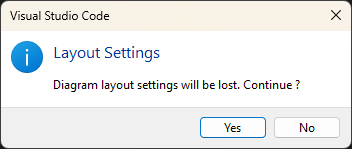
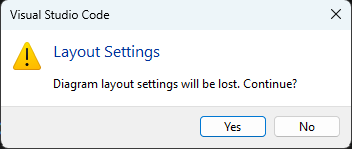
Doc updates for 3.6.0

diff --git a/docs-sources/migration-modelrt/best-practices.md b/docs-sources/migration-modelrt/best-practices.md
@@ -1,26 +1,26 @@
 The sections below summarize experiences and best practises from completed migration projects.
 
 ## Art Exporter Warnings
-It's typical to get a big number of warnings the first time you run the Art Exporter on a model. Each warning has an id that starts with 1, for example `WARNING[1002]`. Even if it's likely that the majority of these warnings are harmless and can be ignored, it's very much recommended that you read and understand each warning. Go through all warnings with a certain id. Once you have done that, and determined that those warnings are safe to ignore, you can disable them in the Model RealTime preferences at **RealTime Development - Build/Transformation - C++ - Rule Configuration**. For example, to disable all warnings with id 1002 add the rule configuration `X1002`.
+It's typical to get a big number of warnings the first time you run the Art Exporter on a model. Each warning has an id that starts with 1, for example `WARNING[1002]`. Even if it's likely that the majority of these warnings are harmless and can be ignored, it's very much recommended that you read and understand each warning. Go through all warnings with a certain id. Once you have done that, and determined that those warnings are safe to ignore, you can disable them in the {$rtist.name$} preferences at **RealTime Development - Build/Transformation - C++ - Rule Configuration**. For example, to disable all warnings with id 1002 add the rule configuration `X1002`.
 
-For some warnings you may instead choose to update the Model RealTime model to get rid of them.
+For some warnings you may instead choose to update the {$rtist.name$} model to get rid of them.
 
 When a warning has been analyzed and you have either disabled it, or updated the model to get rid of it, then run the Art Exporter again to get a new (shorter) list of warnings. Then do the same for the next warning id and repeat until the Art Exporter does not report any warnings for your model.
 
 ## Post Migration Script
-When you decide to make a change in the model to be migrated (for example to address an Art Exporter [warning](#art-exporter-warnings), or add a [missing include directive](#missing-include-directives)) it's of course best if the change can be made in a way that doesn't break the build of the model in Model RealTime. However, sometimes this may not be possible due to differences between how {$product.name$} and Model RealTime work. An alternative to making a breaking change in the Model RealTime model can be to instead update the migrated {$product.name$} files.
+When you decide to make a change in the model to be migrated (for example to address an Art Exporter [warning](#art-exporter-warnings), or add a [missing include directive](#missing-include-directives)) it's of course best if the change can be made in a way that doesn't break the build of the model in {$rtist.name$}. However, sometimes this may not be possible due to differences between how {$product.name$} and {$rtist.name$} work. An alternative to making a breaking change in the {$rtist.name$} model can be to instead update the migrated {$product.name$} files.
 
 You can write a script (e.g. a Bash script) which can make such updates after the Art Exporter has run. Such a post migration script acts like a customization of the Art Exporter, and can also be useful for working around bugs or limitations. By applying the changes with a script rather than doing them manually, you can easily repeat the migration multiple times, something that is often needed during a migration project that can last several weeks for big models.
 
 The sections below cover some known limitations of the Art Exporter which currently must be handled by a post migration script.
 
 ### Updating Names in Code Snippets
-As explained in [Capsule Class Name](#capsule-class-name) there is a difference between Model RealTime and {$product.name$} in how capsule classes and capsule type descriptors are named. The Art Exporter tries to automatically update such references in code snippets. When it's able to detect and update such a name it will print a [warning](#art-exporter-warnings). It's strongly recommended that you review these warnings to confirm that the update is correct.
+As explained in [Capsule Class Name](#capsule-class-name) there is a difference between {$rtist.name$} and {$product.name$} in how capsule classes and capsule type descriptors are named. The Art Exporter tries to automatically update such references in code snippets. When it's able to detect and update such a name it will print a [warning](#art-exporter-warnings). It's strongly recommended that you review these warnings to confirm that the update is correct.
 
 In some cases, however, the Art Exporter will fail to detect these names, and therefore not update them. This can for example happen if they are enclosed in conditional compilation blocks. If you get compilation errors caused by names that were not updated correctly, it's recommended to update them using a [post migration script](#post-migration-script) that can accurately detect and update the name.
 
 ## Capsule Class Name
-In Model RealTime the C++ class that is generated from a capsule has the suffix `_Actor` appended to its name. {$product.name$} does not add this suffix in order to make code snippets more readable. To avoid a name clash with the type descriptor for the capsule (which in Model RealTime has the same name as the capsule), {$product.name$} adds the prefix `RTType_` to its name. This is consistent with the prefix used for all other type descriptors.
+In {$rtist.name$} the C++ class that is generated from a capsule has the suffix `_Actor` appended to its name. {$product.name$} does not add this suffix in order to make code snippets more readable. To avoid a name clash with the type descriptor for the capsule (which in {$rtist.name$} has the same name as the capsule), {$product.name$} adds the prefix `RTType_` to its name. This is consistent with the prefix used for all other type descriptors.
 
 The Art Exporter scans code snippets and tries to automatically update references to a capsule class (remove `_Actor`) or its type descriptor (prepend `RTType_`). For each replacement made it will print a warning. For example:
 
@@ -31,11 +31,11 @@ WARNING[1012] : file:<URI> : Updated a supposed capsule class reference from "So
 It's recommended to manually confirm that the replacement that was done is correct. Once you have confirmed that each automatic replacement is correct you can turn off the warning 1012 as explained in [Art Exporter Warnings](#art-exporter-warnings).
 
 ## Missing Include Directives
-In Model RealTime all generated files include the main TargetRTS header file `RTStructures.h`. No analysis is done to determine if this include is actually necessary or not. In {$product.name$} this include is only added for files that have a dependency on the TargetRTS. This makes compilation of C++ files that do not depend on the TargetRTS faster.
+In {$rtist.name$} all generated files include the main TargetRTS header file `RTStructures.h`. No analysis is done to determine if this include is actually necessary or not. In {$product.name$} this include is only added for files that have a dependency on the TargetRTS. This makes compilation of C++ files that do not depend on the TargetRTS faster.
 
-The Art Exporter has an option `Include TargetRTS headers in all exported C++ files`. If it is set an include of `RTStructures.h` will be added to all exported files, just like Model RealTime works. You may use this option as a quick way to resolve compilation errors caused by this missing include directive, but the recommended long term solution is to update the model to add the include directive only where it's required.
+The Art Exporter has an option `Include TargetRTS headers in all exported C++ files`. If it is set an include of `RTStructures.h` will be added to all exported files, just like {$rtist.name$} works. You may use this option as a quick way to resolve compilation errors caused by this missing include directive, but the recommended long term solution is to update the model to add the include directive only where it's required.
 
-There may also be other include files that are missing in your model, but where the code generated by Model RealTime still compiles (because the required include file gets indirectly included through another include file). Also here the recommended solution is to update the model to add the missing include. Follow the general best practise in C++ which is:
+There may also be other include files that are missing in your model, but where the code generated by {$rtist.name$} still compiles (because the required include file gets indirectly included through another include file). Also here the recommended solution is to update the model to add the missing include. Follow the general best practise in C++ which is:
 
 1) If a file doesn't use anything from an included file, then remove the #include directive completely. Unnecessary include directives makes compilation slower and can lead to unwanted circular dependencies.
 
@@ -44,11 +44,11 @@ There may also be other include files that are missing in your model, but where 
 3) For all other references to declarations, include the file that contains the declaration. Do not rely on that the file gets indirectly included through another included file.
 
 ## Variables in TC Properties
-Model RealTime supports various [variables](https://model-realtime.hcldoc.com/help/topic/com.ibm.xtools.rsarte.webdoc/Articles/Building/Building%20CPP%20Applications/Applying%20Transformation%20Configurations/Dynamic%20Properties.html?cp=23_2_0_1_0_2) in TC properties. Some variables are predefined while others can be defined by the user in Eclipse preferences. Only a few of these variables can be automatically expanded by the Art Exporter.
+{$rtist.name$} supports various [variables](https://model-realtime.hcldoc.com/help/topic/com.ibm.xtools.rsarte.webdoc/Articles/Building/Building%20CPP%20Applications/Applying%20Transformation%20Configurations/Dynamic%20Properties.html?cp=23_2_0_1_0_2) in TC properties. Some variables are predefined while others can be defined by the user in Eclipse preferences. Only a few of these variables can be automatically expanded by the Art Exporter.
 
 If you have a variable in the exported TC that is not defined in {$product.name$} you can define an environment variable, either globally or in the shell from where you launch {$product.name$}. Some TC variables are expanded by {$product.name$}, while others are copied into the generated make file and will be expanded by the make tool. Note that some make tools (e.g. nmake) require environment variable names to be in all uppercase. For example, if you have used the predefined variable `${workspace_loc}` in inclusion paths or paths to object files, you may need to convert it to uppercase `${WORKSPACE_LOC}` in order for it to be expanded to the value of an environment variable with this name.
 
 ## Top Make Command
-Model RealTime TCs have two properties `Top make command` and `Top make arguments` which are typically used for performing "pre-make" commands before the real build of the TC starts. For example, the top make command can invoke a script, copy files needed during the build etc.
+{$rtist.name$} TCs have two properties `Top make command` and `Top make arguments` which are typically used for performing "pre-make" commands before the real build of the TC starts. For example, the top make command can invoke a script, copy files needed during the build etc.
 
 {$product.name$} TCs don't have these properties. Instead you can create a [build task](../building/build-tasks.md) which can perform these commands. You can then either invoke this build task manually before building the TC, or create a combined build task which both performs the "pre-make" commands and then invokes the Art Compiler to build the TC.

diff --git a/docs-sources/building/transformation-configurations.md b/docs-sources/building/transformation-configurations.md
@@ -167,32 +167,32 @@ Below is a table that lists all properties that can be used in a TC (in addition
 | [capsuleFactory](#capsulefactory) | String | N/A
 | [commonPreface](#commonpreface) | String | N/A
 | [compileArguments](#compilearguments) | String | N/A 
-| [compileCommand](#compilecommand) | String | "`$(CC)`"
+| [compileCommand](#compilecommand) | String | `"$(CC)"`
 | [copyrightText](#copyrighttext) | String | N/A 
 | [cppCodeStandard](#cppcodestandard) | Enum string | N/A (Compiler Default)
 | [eval](#eval) | TC object | N/A
-| [executableName](#executablename) | String | "`$(TOP_CAPSULE)$(EXEC_EXT)`"
-| [guardExpressions](#guardexpressions) | Boolean | true
-| [inclusionPaths](#inclusionpaths) | List of strings | []
-| [libraryName](#libraryname) | String | "`$(LIB_PFX)$(TCONFIG_NAME)$(LIB_EXT)`"
+| [executableName](#executablename) | String | `"$(TOP_CAPSULE)$(EXEC_EXT)"`
+| [guardExpressions](#guardexpressions) | Boolean | `true`
+| [inclusionPaths](#inclusionpaths) | List of strings | `[]`
+| [libraryName](#libraryname) | String | `"$(LIB_PFX)$(TCONFIG_NAME)$(LIB_EXT)"`
 | [linkArguments](#linkarguments) | String | N/A
-| [linkCommand](#linkcommand) | String | "`$(LD)`"
+| [linkCommand](#linkcommand) | String | `"$(LINK)"`
 | [makeArguments](#makearguments) | String | N/A
-| [makeCommand](#makecommand) | String | "`$defaultMakeCommand`"
+| [makeCommand](#makecommand) | String | `"$defaultMakeCommand"`
 | [precompiledLibrary](#precompiledlibrary) | String | N/A
-| [prerequisites](#prerequisites) | List of strings | []
-| [sources](#sources) | List of strings | ["*.art"]
+| [prerequisites](#prerequisites) | List of strings | `[]`
+| [sources](#sources) | List of strings | `["**/*.art", "**/*.h", "**/*.cpp"]`
 | [sourceSubdirectory](#sourcesubdirectory) | String | N/A
 | [targetConfiguration](#targetconfiguration) | String | Depends on current operating system
-| [targetConfigurationName](#targetconfigurationname) | String | "default"
-| [targetFolder](#targetfolder) | String | Name of TC with "_target" appended
-| [targetRTSLocation](#targetrtslocation) | String | "`${code_rt_home}`/TargetRTS"
+| [targetConfigurationName](#targetconfigurationname) | String | `"default"`
+| [targetFolder](#targetfolder) | String | Name of TC with `"_target"` appended
+| [targetRTSLocation](#targetrtslocation) | String | `"${code_rt_home}/TargetRTS"`
 | [threads](#threads) | List of Thread objects | List of two Thread objects (MainThread and TimerThread)
 | [topCapsule](#topcapsule) | String | N/A
-| [unitName](#unitname) | String | "UnitName"
+| [unitName](#unitname) | String | `"UnitName"`
 | [unitSubdirectory](#unitsubdirectory) | String | N/A
-| [userLibraries](#userlibraries) | List of strings | []
-| [userObjectFiles](#userobjectfiles) | List of strings | []
+| [userLibraries](#userlibraries) | List of strings | `[]`
+| [userObjectFiles](#userobjectfiles) | List of strings | `[]`
 
 ### capsuleFactory
 This property can be used for specifying a global capsule factory that can control how all capsule instances in the application are created and destroyed. One scenario where this is useful is when implementing dependency injection for capsule creation. See [Capsule Factory](../target-rts/capsule-factory.md) and [Dependency Injection](../target-rts/dependency-injection.md) for more information.
@@ -280,7 +280,7 @@ Specifies additional include paths for the C++ preprocessor in addition to "stan
 tc.inclusionPaths = ["/libs/myLib1/includes", "/libs/myLib2/includes"];
 ```
 
-Note that you don't need to add inclusion paths for target folders of prerequisite TCs. They are added automatically by the make file generator.
+Note that you don't need to add inclusion paths for target folders of prerequisite TCs. They are added automatically by the make file generator. You also don't need to explicitly add the workspace folder, or any of its subfolders, that contain C++ header files that your application uses. Such folders are also automatically added by the make file generator (see [this chapter](build-cpp-files.md)).
 
 Inclusion paths may contain environment variables, to be expanded by the make tool. Note that some make tools (e.g. nmake) convert such environment variables to upper case.
 
@@ -301,7 +301,7 @@ tc.linkArguments = '/DEBUG'; // Build executable for debugging with Visual Studi
 ```
 
 ### linkCommand
-Specifies which C++ linker to use for linking object files and libraries into an executable. The default value for this property is `$(LD)` which is a variable that gets its value from the TargetRTS configuration that is used. This property is only applicable for TCs that build executables.
+Specifies which C++ linker to use for linking object files and libraries into an executable. The default value for this property is `$(LINK)` which is a variable that gets its value from the TargetRTS configuration that is used. This property is only applicable for TCs that build executables.
 
 ### makeArguments
 Specifies the arguments for the [make command](#makecommand) to be used.
@@ -342,11 +342,11 @@ Note that use of workspace-relative paths requires setting the [-ws](art-compile
 For more information about this property see [Transformation Configuration Prerequisites](#transformation-configuration-prerequisites).
 
 ### sources
-By default all Art files that are located in the same folder as the TC will be transformed to C++. Sometimes you may want to exclude some Art files, for example because they are built with another TC, or they contain something you want to temporarily exclude from your application without having to delete the files or comment out their contents. In these cases you can set the `sources` property to specify exactly which Art files that should be built by the TC. The value of the property is a list of strings that specify glob-style patterns and anti-patterns. An Art file will be transformed if it matches at least one pattern and doesn't match any anti-pattern. Anti-patterns start with the `!` character. In both patterns and anti-patterns you can use the wildcards `*` (matches any sequence of characters) and `?` (matches a single character). Below are a few examples:
+By default all Art files that are located in the same folder as the TC will be transformed to C++. Sometimes you may want to exclude some Art files, for example because they are built with another TC, or they contain something you want to temporarily exclude from your application without having to delete the files or comment out their contents. In these cases you can set the `sources` property to specify exactly which Art files that should be built by the TC. The value of the property is a list of strings that specify glob-style patterns and anti-patterns. An Art file will be transformed if it matches at least one pattern and doesn't match any anti-pattern. Anti-patterns start with the `!` character. In both patterns and anti-patterns you can use the wildcards `*` (matches any sequence of characters) and `?` (matches a single character). The wildcard `**` can be used to apply a pattern or anti-pattern also in subfolders. Below are a few examples:
 
 ``` js
-tc.sources = ["*.art"]; // Transform all Art files in the folder that contains the TC. This is the default behavior if the "sources" property is not set.
-tc.sources = ["cap1.art", "cap2.art"]; // Only transform two specific Art files
+tc.sources = ["**/*.art"]; // Transform all Art files in the folder that contains the TC, and in any subfolder.
+tc.sources = ["cap1.art", "sub/cap2.art"]; // Only transform two specific Art files, one located in the folder that contains the TC and another located in a subfolder
 tc.sources = ["*.art", "!code_rt_gen.art"]; // Transform all Art files except one
 tc.sources = ["!code_rt_gen.art"]; // Same as above (i.e. the pattern "*.art" is optional)
 tc.sources = ["source??.art", "!*_gen.art"]; // Transform all Art files with names starting with "source" and followed by two arbitrary characters. Art files with a name that ends with "_gen" are excluded.
@@ -355,7 +355,14 @@ tc.sources = ["source??.art", "!*_gen.art"]; // Transform all Art files with nam
 !!! example
     You can find a sample application that has a TC with the "sources" property set [here]({$vars.github.repo$}/tree/main/art-comp-test/tests/tc_sources).
 
-The `sources` property can also be used to specify which regular (i.e. non-generated) C++ files that should be included in the build. See [this chapter](build-cpp-files.md#excluding-source-files) for more information.
+The `sources` property can also be used to specify which regular (i.e. non-generated) C++ files that should be included in the build. Both header files (.h) and implementation files (.cpp) can be added:
+
+* Each C++ implementation file will be included in the build, and be compiled with the same compiler flags that are used for generated C++ files.
+* Each C++ header file will be made accessible during compilation by adding its container folder to the [inclusionPaths](#inclusionpaths) property.
+
+If you don't set the `sources` property its default value is `['**/*.art', '**/*.h', '**/*.cpp]`. That is, by default all Art files and C++ implementation files will be built, and all C++ header files are automatically accessible.
+
+For more information about including non-generated C++ source files in a build, see [this chapter](build-cpp-files.md).
 
 ### sourceSubdirectory
 This property can be set to place generated source files into a sub folder within the [target folder](#targetfolder). It should be a string that is valid as the name of a folder.

diff --git a/docs-sources/validation.md b/docs-sources/validation.md
@@ -1796,6 +1796,21 @@ The Art elements with duplicate names are reported as related elements.
 
 Note that this validation rule only applies for a TC that is [active](building/transformation-configurations.md#setting-a-transformation-configuration-as-active), because references to global elements are resolved using the active TC. In the context of the Art Compiler the TC that is specified with the [--tc](building/art-compiler.md#tc) option is considered to be the active TC.
 
+### TC_7020_invalidSourcesProperty
+| Severity | Reason | Quick Fixes
+|----------|:-------------|:-------------
+| Warning | The [`sources`](building/transformation-configurations.md#sources) property has an invalid value | N/A
+
+The [`sources`](building/transformation-configurations.md#sources) property of a TC defines which `.art` and `.cpp` files that should be built by the TC. It can also specify C++ header files (`.h`) to make them accessible, by adding their containing folders to the compiler's include path.
+
+If you want to build all files in the workspace folder (and subfolders, if any) you don't need to set the [`sources`](building/transformation-configurations.md#sources) property. But if you do set it, its value must comply with the following:
+
+* All patterns must specify either Art or C++ source files (with file extensions `.art` and `.cpp`) or C++ header files (with file extension `.h`). Other file extensions are not allowed.
+* All patterns that specify files without use of any wildcards (`**`, `*` or `?`) must exist in the workspace folder, or in a subfolder. 
+* At least one Art file (`.art`) must be included
+
+This validation rule reminds you to update the [`sources`](building/transformation-configurations.md#sources) property if you rename or move files in your workspace folder.
+
 ## Core Validation Rules
 There are certain core rules that run before the semantic validation rules mentioned above. They are responsible for making sure that the Art file is syntactically correct and that all references it contains can be successfully bound to valid Art elements.
 
@@ -1853,3 +1868,16 @@ A special validation rule is used for detecting and reporting so called internal
 
 Internal errors may arise from bugs and often result from unexpected situations. While it may be possible to workaround an internal error, the problem can only be fully solved by updating {$product.name$}. Therefore, the first thing you should do if you get an internal error is to make sure you are running the latest version of {$product.name$} (see [Releases](releases/index.md)). If you don't, then please uplift to the latest version as there is a chance the problem has been fixed in that version. If that doesn't help, please report the internal error as described [here](support.md).
 
+## C++ Code Snippet Validation
+The C++ code that you write in a code snippet within an Art file is not analyzed by {$product.name$}. Instead, such code is analyzed as part of the C++ file that is generated from the Art file. This is done twice by two independent tools:
+
+1) The C++ language server ("clangd" or "Microsoft C++") validates a C++ file as soon as it appears in a workspace folder or gets modified (or when another file it depends on is modified). 
+2) The C++ compiler validates a C++ file when compiling it.
+
+The purpose of the C++ language server validation is to detect problems already when a C++ file is modified, before it is compiled. This is exactly the same purpose for which Art validation takes place. It can therefore be useful to show C++ errors and warnings reported by the C++ language server, in the Art file's code snippets. You can accomplish this by means of [a setting](settings.md#show-diagnostics-in-code-snippets).
+
+Here is an example of how an error detected by the C++ language server is shown in a code snippet of an Art file:
+
+![](images/cpp-diagnostics-in-code-snippets.png)
+
+The reason this feature is not enabled by default is that there could be subtle differences between how the C++ language server validates the C++ code and how the C++ compiler does it. By propagating a C++ language server error to the Art file it will prevent the TC from being built (see [this chapter](building/index.md#tc-context-menu-commands)), even if the C++ compiler would not report that particular error. If you encounter this, but still find it useful to see C++ diagnostics in Art files, you can disable the setting [code-rt.build.cancelOnError](settings.md#cancel-on-error).

diff --git a/docs-sources/settings.md b/docs-sources/settings.md
@@ -17,7 +17,8 @@ Below is a table that lists all {$product.name$} settings. Each setting is descr
 | [Diagram - Show Transition Names](#show-transition-names) | code-rt.diagram.showTransitionNames | Show transition names on state diagrams
 | [Diagram - Show Excluded Elements in State Diagram](#show-excluded-elements) | code-rt.diagram.showExcludedElementsInStateDiagram | Show exluded elements in state diagrams
 | [Diagram - Show Excluded Elements in Structure Diagram](#show-excluded-elements) | code-rt.diagram.showExcludedElementsInStructureDiagram | Show exluded elements in structure diagrams
-| [Diagram - Show Diagnostics](#show-diagnostics) | code-rt.diagram.showDiagnostics | Show error, warning and information icons on diagrams
+| [Diagram - Show Diagnostics](#show-diagnostics-on-diagrams) | code-rt.diagram.showDiagnostics | Show error, warning and information icons on diagrams
+| [Code Snippets - Show Diagnostics](#show-diagnostics-in-code-snippets) | code-rt.codeSnippets.showDiagnostics | Show errors and warnings in C++ code snippets inside Art files
 
 ## Language Server
 Settings related to running the {$product.name$} language server.
@@ -61,7 +62,11 @@ If you feel that showing the names of transitions makes state diagrams too clutt
 ### Show Excluded Elements
 By default excluded elements are shown in state and structure diagrams with a "crossed" background or line style. If you prefer excluded elements to instead be hidden from diagrams, you can turn off this setting. Note that there are actually two settings here; one for state diagrams and one for structure diagrams. See [Diagram Filters](working-with-art/diagrams.md#diagram-filters) for more information.
 
-### Show Diagnostics
+### Show Diagnostics on Diagrams
 By default diagram elements will be decorated by icons corresponding to diagnostics generated by [validation rules](validation.md#validation-rules). Turn off this setting if you don't want to see these icons on diagrams.
 
 There are three kinds of diagnostic icons corresponding to the problem severity levels Error, Warning and Information. See [Problem Severity](validation.md#problem-severity) for more information.
+
+### Show Diagnostics in Code Snippets
+If you turn this setting on, errors and warnings reported by the C++ language server ("clangd" or "Microsoft C++"), for C++ code located inside a code snippet in an Art file, will be shown in the code snippet. Note that this duplicates all such diagnostics in the Problems view; they will be reported both on the Art file and the C++ file that is generated from it. Read more about this feature [here](validation.md#c-code-snippet-validation).
+

diff --git a/docs-sources/target-rts/versions.md b/docs-sources/target-rts/versions.md
@@ -55,6 +55,9 @@ A new decoder class [`RTJsonDecoding`](../targetrts-api/class_r_t_json_decoding.
 ### Building without rtperl
 New macros were added in makefiles to support building generated applications without using `rtperl`.
 
+!!! note
+    This change affects target configurations. If you have created your own target configurations, make sure to update them accordingly.
+
 ### JSON parser
 A new class [`RTJsonParser`](../targetrts-api/class_r_t_json_parser.html) can be used for parsing arbitrary JSON strings. It has a more general use than [`RTJsonDecoding`](../targetrts-api/class_r_t_json_decoding.html) which is specifically for decoding JSON that has been produced by [`RTJsonEncoding`](../targetrts-api/class_r_t_json_encoding.html). See [this chapter](encoding-decoding.md#json-parser) for more information.
 
@@ -65,7 +68,7 @@ A Bash script `createPatch.sh` is now available in the `tools` folder of the Tar
 Data of pointer type is now encoded to a string by the JSON encoder ([`RTJsonEncoding`](../targetrts-api/class_r_t_json_encoding.html)) and can be decoded back to a memory address by the JSON decoder ([`RTJsonDecoding`](../targetrts-api/class_r_t_json_decoding.html)).
 
 ### Align terminology in comments
-Several comments were updated to align the terminology used in Code and Model RealTime. This was done so that the Doxygen documentation that is generated from the TargetRTS header files will be easy to understand for users of both products.
+Several comments were updated to align the terminology used in {$product.name$} and {$rtist.name$}. This was done so that the Doxygen documentation that is generated from the TargetRTS header files will be easy to understand for users of both products.
 
 ### Configurable max TCP connections
 The [`RTTcpSocket`](../targetrts-api/class_r_t_tcp_socket.html) class has a new function `setMaxPendingConnections()` which can be used for setting the maximum number of clients that can connect to the TCP socket. Previously this limit was always 5, and this is still the default in case you don't call this function to change it.

diff --git a/docs-sources/building/build-cpp-files.md b/docs-sources/building/build-cpp-files.md
@@ -32,7 +32,7 @@ capsule Main {
 
 It's recommended to place C++ source files in subfolders as in the example above. If you place them directly in the workspace folder you need to ensure they don't have the same name as any of the Art elements that are built. This is to ensure there are no name clashes between the object files that are produced when building.
 
-## Excluding Source Files
+## Including and Excluding Source Files
 By default all `.cpp` and `.h` files that are found in a workspace folder, or in a folder that is directly or indirectly contained in the workspace folder, will be included in the build. If you want to exclude some of these files from the build you can use the [`sources`](transformation-configurations.md#sources) TC property, just as for Art files. All `.cpp` and `.h` files that match at least one pattern in the [`sources`](transformation-configurations.md#sources) property, and doesn't match an anti-pattern (starting with the character `!`) will be included into the build. 
 
 !!! note
@@ -41,8 +41,8 @@ By default all `.cpp` and `.h` files that are found in a workspace folder, or in
 Here are some examples:
 
 ``` js
-tc.sources = ["**/*.cpp", "**/*.h", "*.art"]; // Include all .cpp and .h files from the workspace folder and all its subfolders, and all .art files from the workspace folder. This is the default behavior if the "sources" property is not set.
-tc.sources = ["src/utils.cpp", "include/utils.h", "*.art"]; // Include a specific .cpp and .h file into the build
+tc.sources = ["**/*.art", "**/*.h", "**/*.cpp"]; // Include all .art, .cpp and .h files from the workspace folder and all its subfolders. This is the default behavior if the "sources" property is not set.
+tc.sources = ["src/utils.cpp", "include/utils.h", "**/*.art"]; // Include a specific .cpp and .h file into the build
 tc.sources = ["!src/utils.cpp", "!include/utils.h"]; // Include all .cpp and .h files except two specific ones (all .art files will be built)
 ```
 

diff --git a/docs-sources/running-and-debugging/rts-debugger.md b/docs-sources/running-and-debugging/rts-debugger.md
@@ -95,7 +95,7 @@ The following information is printed for the capsule instance:
 * **ClassName** This is the name of the capsule from which the capsule instance was created (i.e. the dynamic type of the capsule instance).
 * **ReferenceName** This is the name of the part in which the capsule instance is located. For the top capsule instance the special name `application` is used.
 * **CurrentState** This is the state that is currently active in the capsule state machine. For a nested state this will be a qualified string that shows the path to the active state in the hierarchical state machine. If the state machine has not reached its initial state yet (for example if it is still running the initial transition), the special name `<machine>` is used.
-* **Address** The C++ class that implements the capsule and the memory address of the capsule instance. Note that the C++ class name will be printed with the suffix "_Actor". This is printed since in Model RealTime capsule classes have that suffix in their names. However, in {$product.name$} they do not have this suffix.
+* **Address** The C++ class that implements the capsule and the memory address of the capsule instance. Note that the C++ class name will be printed with the suffix "_Actor". This is printed since in {$rtist.name$} capsule classes have that suffix in their names. However, in {$product.name$} they do not have this suffix.
 * Information about actor probes. When the Art Debugger is attached to the application, there could be an actor probe, but not otherwise.
 * Information about ports. This includes what ports exist on the capsule, and their current state (e.g. if they are wired, i.e. bound, to another port). You can also see which ports that are public (i.e. server ports). Each port is identified by an id (a number starting with 0).
 * Information about parts (in this context referred to as "components"). Each part is identified by a number (starting with 1).

diff --git a/docs-sources/migration-modelrt/index.md b/docs-sources/migration-modelrt/index.md
@@ -1,4 +1,4 @@
-Applications created with [Model RealTime](https://model-realtime.hcldoc.com/help/topic/com.ibm.xtools.rsarte.webdoc/users-guide/overview.html?cp=23_0) can be migrated to {$product.name$} by means of the [Art Exporter](https://model-realtime.hcldoc.com/help/topic/com.ibm.xtools.rsarte.webdoc/Utilities/Art%20Exporter/index.html?cp=23_5_0). This is a utility which you install separately on top of a Model RealTime installation. 
+Applications created with [{$rtist.name$}](https://model-realtime.hcldoc.com/help/topic/com.ibm.xtools.rsarte.webdoc/users-guide/overview.html?cp=23_0) can be migrated to {$product.name$} by means of the [Art Exporter](https://model-realtime.hcldoc.com/help/topic/com.ibm.xtools.rsarte.webdoc/Utilities/Art%20Exporter/index.html?cp=23_5_0). This is a utility which you install separately on top of a {$rtist.name$} installation. 
 
-These [slides](attachments/CodeRT_versus_ModelRT.pdf) summarize the most important improvements in {$product.name$} over Model RealTime and the reasons why you may consider migrating your models.
+These [slides](attachments/CodeRT_versus_ModelRT.pdf) summarize the most important improvements in {$product.name$} over {$rtist.name$} and the reasons why you may consider migrating your models.
 

diff --git a/docs-sources/working-with-art/diagrams.md b/docs-sources/working-with-art/diagrams.md
@@ -96,6 +96,14 @@ Move the source and target bendpoint to decide where on the source and target sy
 To delete all bendpoints, and make the line straight again, select the line and press ++ctrl+space++ and then perform the command **Make Straight**. To only delete some of the bendpoints, select them, press ++ctrl+space++ and then perform the command **Delete Bendpoint**.
 
 ### Discarding Layout Information
+You can discard all changes you have made to a diagram since the last time it was saved by clicking the button **Restore Saved Layout**, next to the **Manual** checkbox in the Properties view. This is more convenient than performing the **Undo** command multiple times, or to accomplish the same thing by closing and reopening the diagram without saving the layout changes.
+
+![](images/restore-saved-layout.png)
+
+You will be prompted for confirmation since this operation is not undoable.
+
+![](images/restoring-layout-settings.png)
+
 If you want to go back from manual to automatic layout, just uncheck the **Manual** checkbox. You will be prompted for confirmation, and if you proceed the JSON file with the diagram's layout information will be deleted when you save the diagram. This operation is not undoable!
 
 ![](images/deleting-layout-settings.png)
